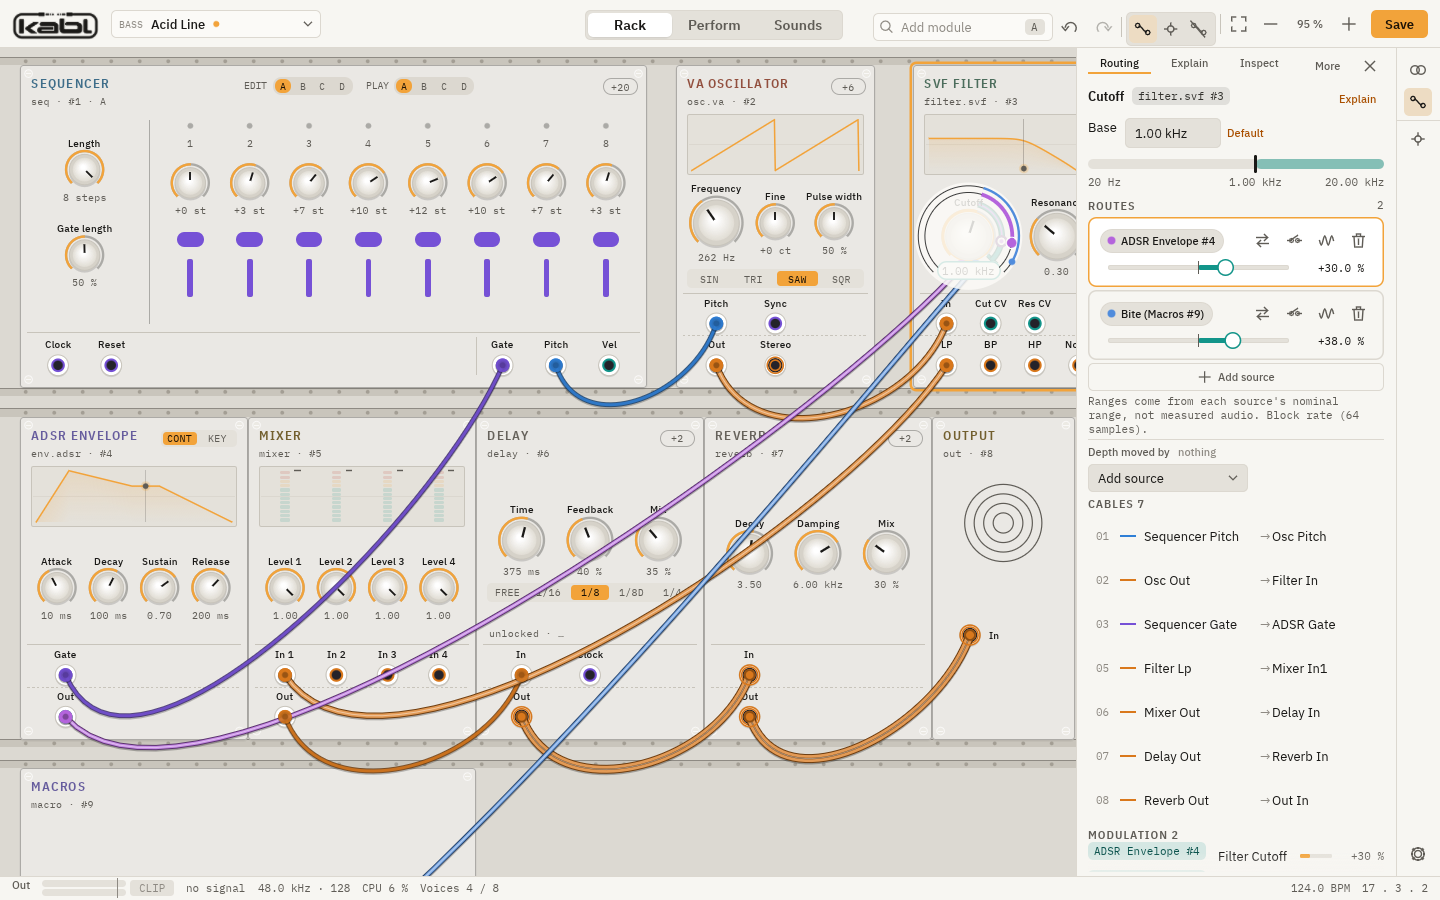
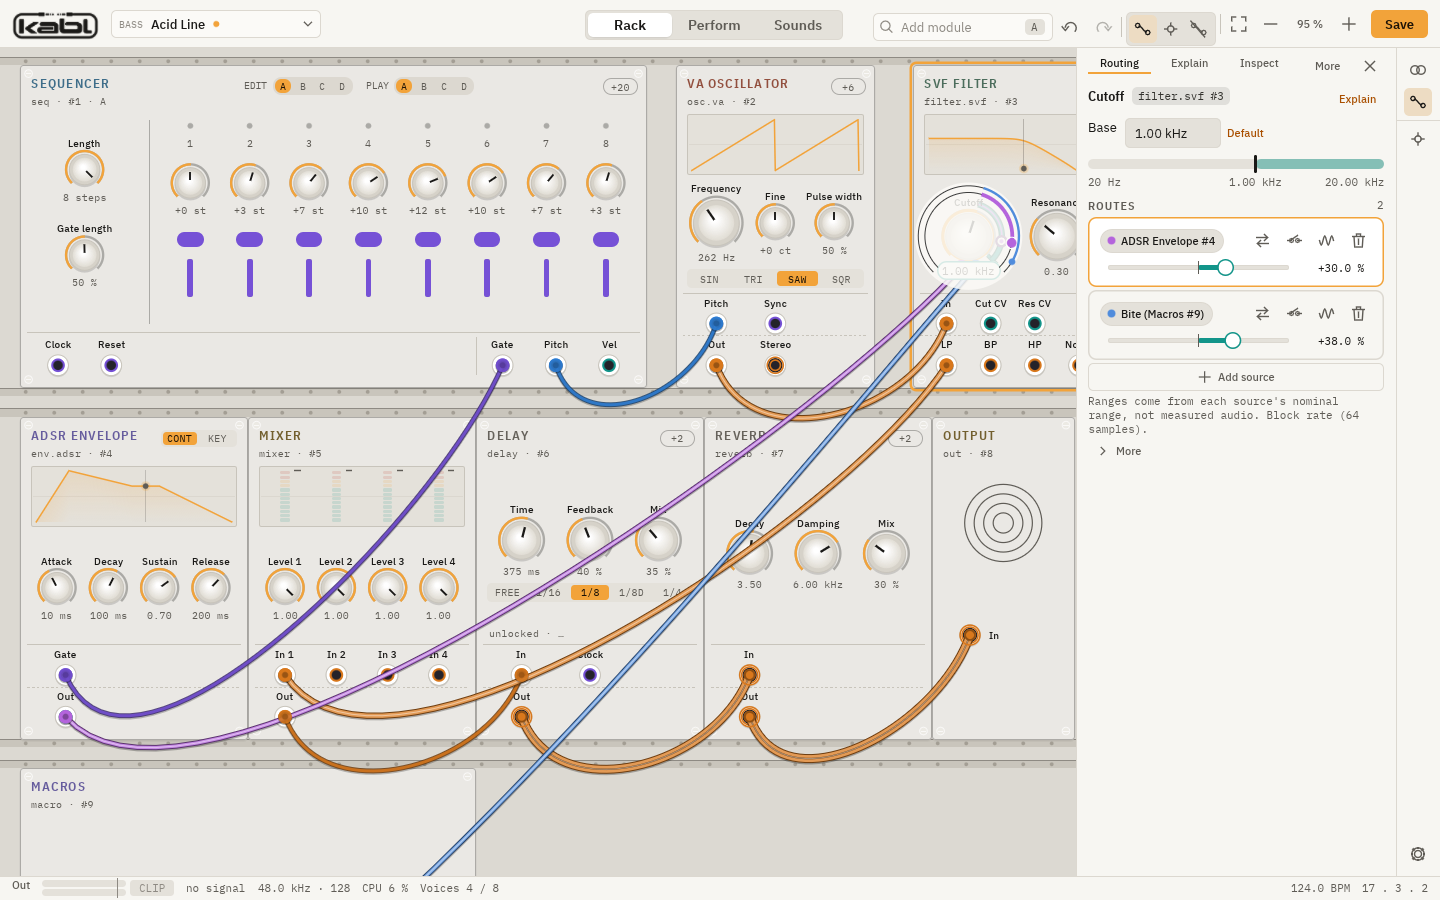
ui: routes drawer keeps depth routes and the lists behind More
While a control is inspected, the drawer shows only its editor, as in
the G4 mockup: what moves the selected route's depth, the routes into
cable parameters and the patch-wide lists wait behind a More
disclosure, like the cable editor's. Adds mockup / app comparison
sheets next to the captures.

diff --git a/crates/ui/src/routing.rs b/crates/ui/src/routing.rs
@@ -1599,14 +1599,39 @@ pub(crate) fn drawer(editor: &mut PatchEditor, ui_state: &mut UiState, ui: &mut 
             ui_state.selected_route = None;
         }
     }
-    // The selected route's depth can itself be moved, by a macro, LFO or envelope.
+    // Behind More, as in the cable editor: what moves the selected route's depth (a macro,
+    // LFO or envelope), and the patch-wide lists.
+    let more_id = more_key(id, &pname);
+    let mut more = ui.data(|d| d.get_temp::<bool>(more_id)).unwrap_or(false);
+    let r = ui.add(kit::Button::new(st, "More").ghost().small().icon(if more {
+        kit::Ic::Down
+    } else {
+        kit::Ic::Right
+    }));
+    ui_state.record(format!("route-more:{id}.{pname}"), r.rect);
+    if r.clicked() {
+        more = !more;
+        ui.data_mut(|d| d.insert_temp(more_id, more));
+    }
     if let Some(sel) = ui_state
         .selected_route
-        .filter(|c| routes.iter().any(|r| r.cable == *c))
+        .filter(|c| more && routes.iter().any(|r| r.cable == *c))
     {
-        kit::rule(ui, st);
         cable_param_routes(ui, editor, ui_state, sel, kabl_engine::compile::DEPTH);
     }
+}
+
+fn more_key(id: ModuleId, param: &str) -> Id {
+    Id::new(("route-more", id, param))
+}
+
+/// The inspected control's More disclosure is open, or no control is inspected: the drawer
+/// then also shows the patch-wide lists and routes.
+pub(crate) fn more_open(ctx: &egui::Context, ui_state: &UiState) -> bool {
+    ui_state.inspected.as_ref().is_none_or(|(id, p)| {
+        ctx.data(|d| d.get_temp::<bool>(more_key(*id, p)))
+            .unwrap_or(false)
+    })
 }
 
 /// Every module output, labelled as a route source.

diff --git a/crates/ui/src/lib.rs b/crates/ui/src/lib.rs
@@ -1095,11 +1095,12 @@ fn drawer(
         }
         pattern::panel(editor, ui_state, ui);
         routing::drawer(editor, ui_state, ui);
-        // An open cable editor (G4) shows its own routes; the patch-wide ones and the lists
-        // wait behind its More disclosure.
+        // An open cable editor or inspected control (G4) shows its own routes; the patch-wide
+        // ones and the lists wait behind its More disclosure.
         let cable_open = ui_state
             .cable_fn
-            .is_some_and(|c| !pattern::more_open(ui.ctx(), c));
+            .is_some_and(|c| !pattern::more_open(ui.ctx(), c))
+            || !routing::more_open(ui.ctx(), ui_state);
         if !cable_open {
             routing::cable_routes(editor, ui_state, ui);
         }

diff --git a/crates/ui/tests/functional_cables.rs b/crates/ui/tests/functional_cables.rs
@@ -384,9 +384,10 @@ fn a_routes_depth_gets_a_source_from_the_drawer_and_the_patch_still_compiles() {
             _ => None,
         })
         .expect("a route into a knob");
-    t.ui.inspected = Some((id, param));
+    t.ui.inspected = Some((id, param.clone()));
     t.ui.selected_route = Some(route);
     t.frame();
+    t.click(&format!("route-more:{id}.{param}"));
     t.click(&format!("croute-add:{route}:amount"));
     let source =
         t.ui.hits
